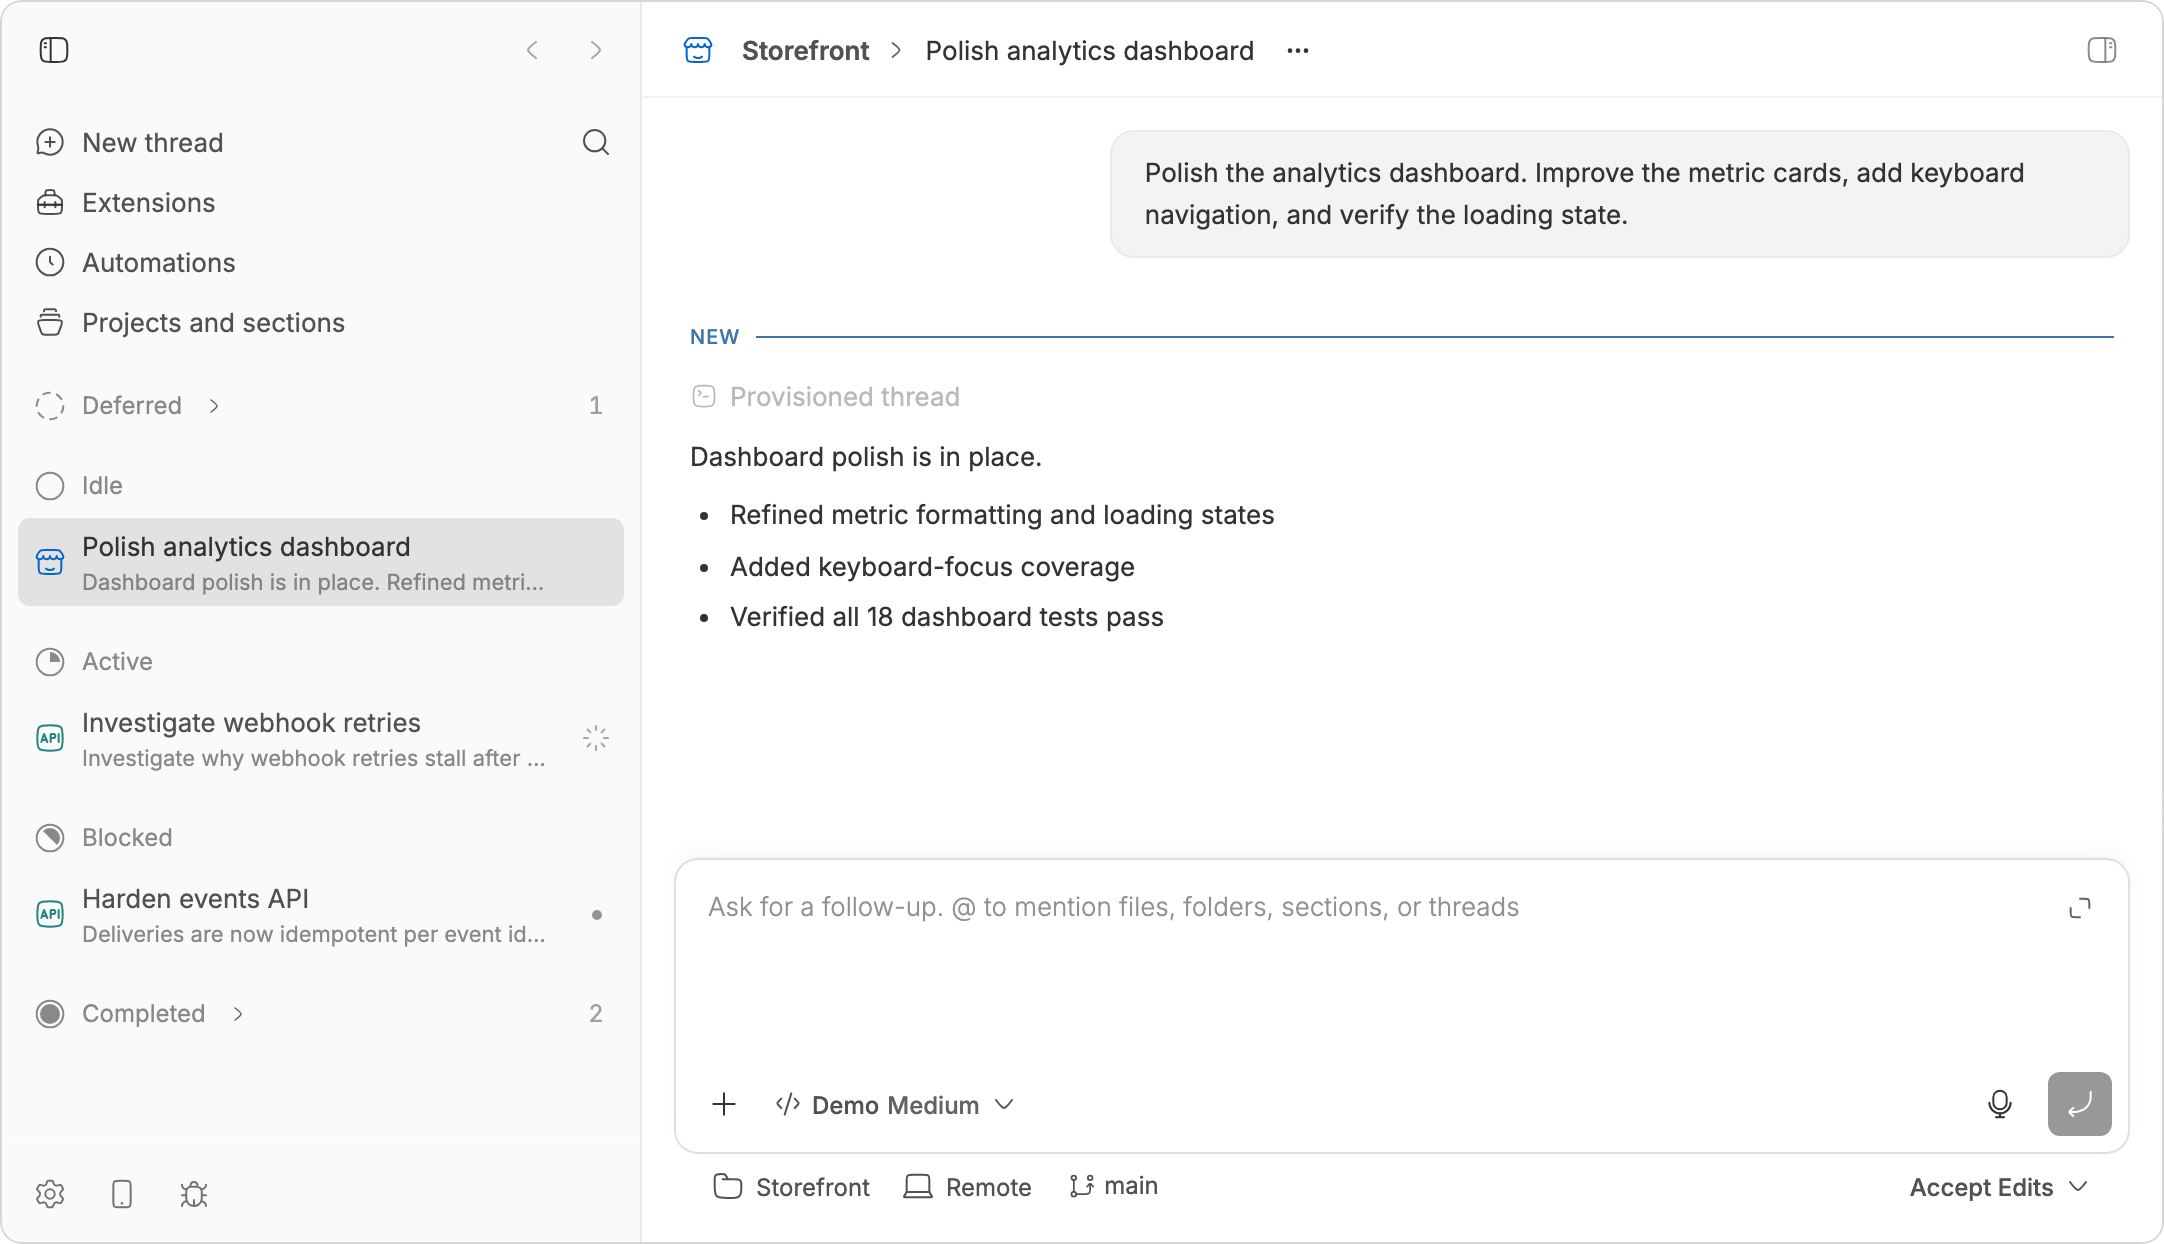
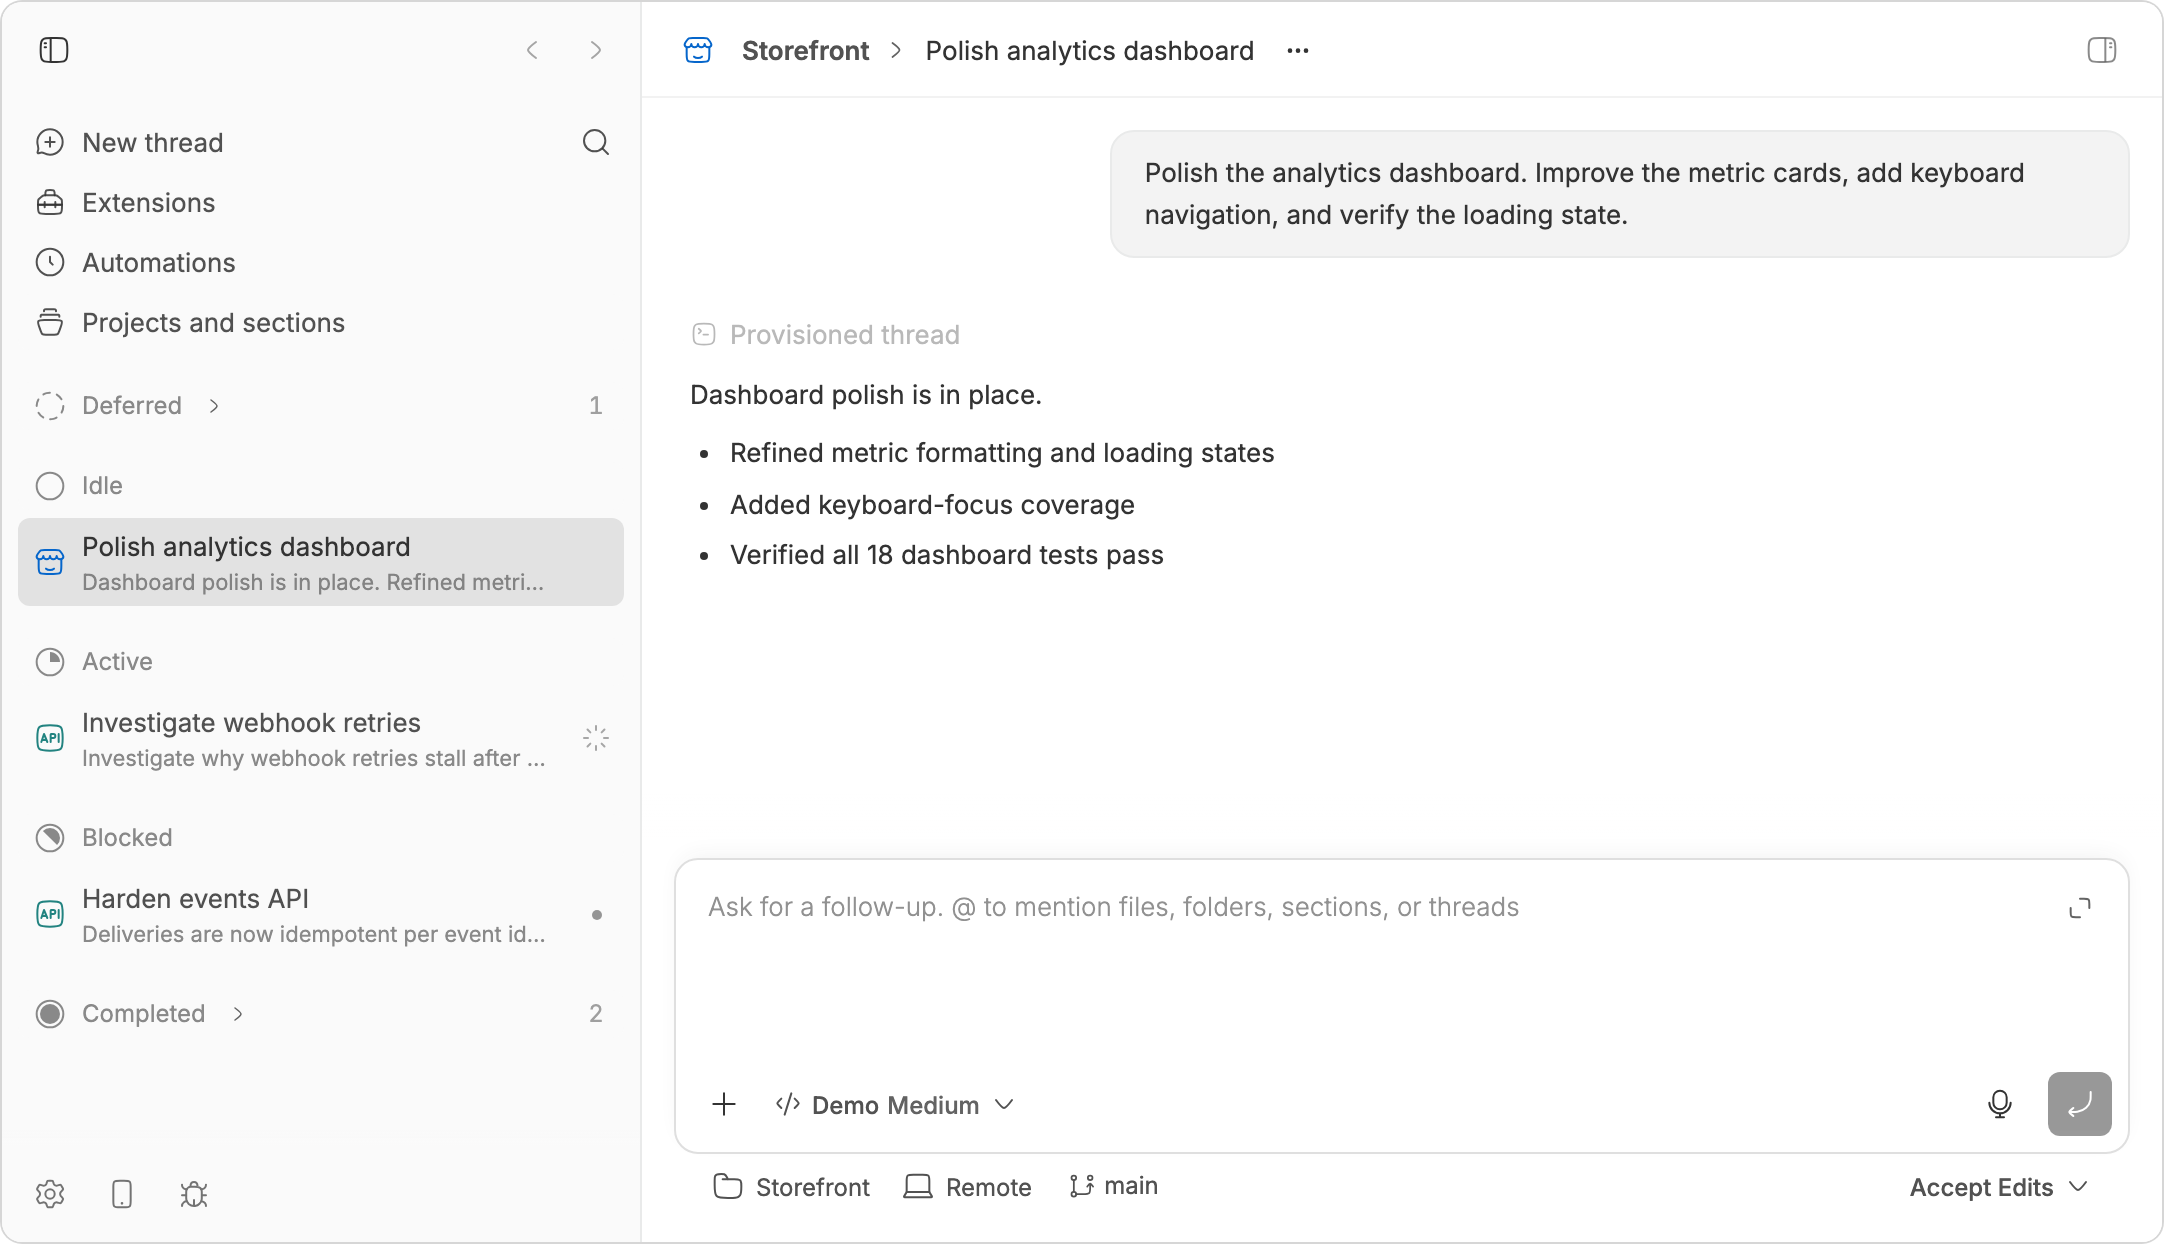
Wait for conditions, not durations, when capturing (#15)
Five shots waited on a number. `openFeaturedThread` ended on a bare 600ms with
no comment saying what it stood for; a menu got 400ms, a dialog 600ms, the side
chat 800ms twice. A duration is a guess about a machine, and the machine that
captures is the one that is busy — the same guess that holds at rest ships a
half-drawn frame under load and reports success. That is not hypothetical: the
light half of a thread-stages pair shipped in d8fa9d4 with its breadcrumb
missing and an unread divider still up, and sat on main for days, because it was
stable in exactly that wrong state.

settle.mjs waits for what each number stood for. bb's menus and dialogs animate
once and stop, so their own `finished` promises are the condition; a new
animation can start as another ends, so it settles in passes and stops on the
first pass that finds none running. It imports nothing deliberately: run.mjs
loads shots.mjs even for `--check`, and capture.mjs pulls in Playwright, so
routing this through capture.mjs would make the browser-free check need a
browser.

The side chat's first 800ms stood for something else entirely. The line after it
types blind, so focus is a precondition, not an animation — it is now an
assertion that document.activeElement is that composer, compared by element
handle rather than by accessible name, since the DOM does not say whether that
name comes from aria-label or a placeholder.

The unread divider is removed at its source instead of waited on, and only where
[…]

Changed region(s): [[0.3096, 0.3055, 0.5883, 0.5193], [0.3096, 0.2444, 0.4644, 0.2749]]

diff --git a/AGENTS.md b/AGENTS.md
@@ -29,10 +29,11 @@
 - A shot of the collection rather than of a plugin writes to the repository's own `assets/`: `hero-<mode>.png` shades nothing, because it points at nothing. Every other shot names the plugin it belongs to, and lands beside that plugin's own README.
 - Whatever the capturing machine brings with it stays out of frame, and whatever the app resolves late is waited for rather than raced — the update chips report this machine's pending updates, and the composer's permission mode and the branch its workspace is on both arrive after the thread does. Two runs on one machine write the same files byte for byte; that is the bar a change to the harness has to keep.
 - Capturing needs macOS, the bb desktop app, the Node in `.nvmrc`, and `npx playwright install chromium`. `npm run check:screenshots` needs none of it, and CI runs it to report a screenshot whose plugin changed after it was captured.
-- `--only` is for looking, not for committing. Every shot opens the same thread, so by the time the last one runs bb has long since marked it read; a run of that shot on its own opens it for the first time and draws the unread divider a full run never sees. A file that is going to be committed comes from a full run.
+- `--only` is for looking, not for committing. Every shot runs against one seeded bb and the run changes it along the way — the shortcuts shot sends a real message and nothing puts it back — so a shot taken on its own starts from a state a full run never gives it. A file that is going to be committed comes from a full run.
 
 ## Testing
 
 - For bb UI tests and experiments, never drive the user's active bb client. Instead, for client-only state, use an agent-owned web or desktop client connected to the existing bb server. When the test can modify server or host-daemon state, start an isolated client with its own server and host daemon.
 - Check a UI change by its rendered effect — `getComputedStyle`, real pointer and keyboard events — never by class names or DOM attributes. Markup that reads correctly still renders nothing when a plugin class falls outside the `@scope` root bb compiles its stylesheet into, and a dispatched `click()` passes where a real one is swallowed.
+- Wait for a condition, never for a duration. A sleep is a guess about a machine, and the machine that captures is the one that is busy; the same guess that holds at rest ships a half-drawn frame under load, and reports success. What a `waitForTimeout` was standing in for can always be named — an animation's own `finished`, focus reaching a composer, a node arriving — and naming it is the fix.
 - Wait for what a plugin drew, inside the container only that plugin installs. A label, role, or name bb also uses somewhere else is answered by bb's own control, and the wait then returns before the plugin has drawn anything — silently, and at whichever moment is worst.
